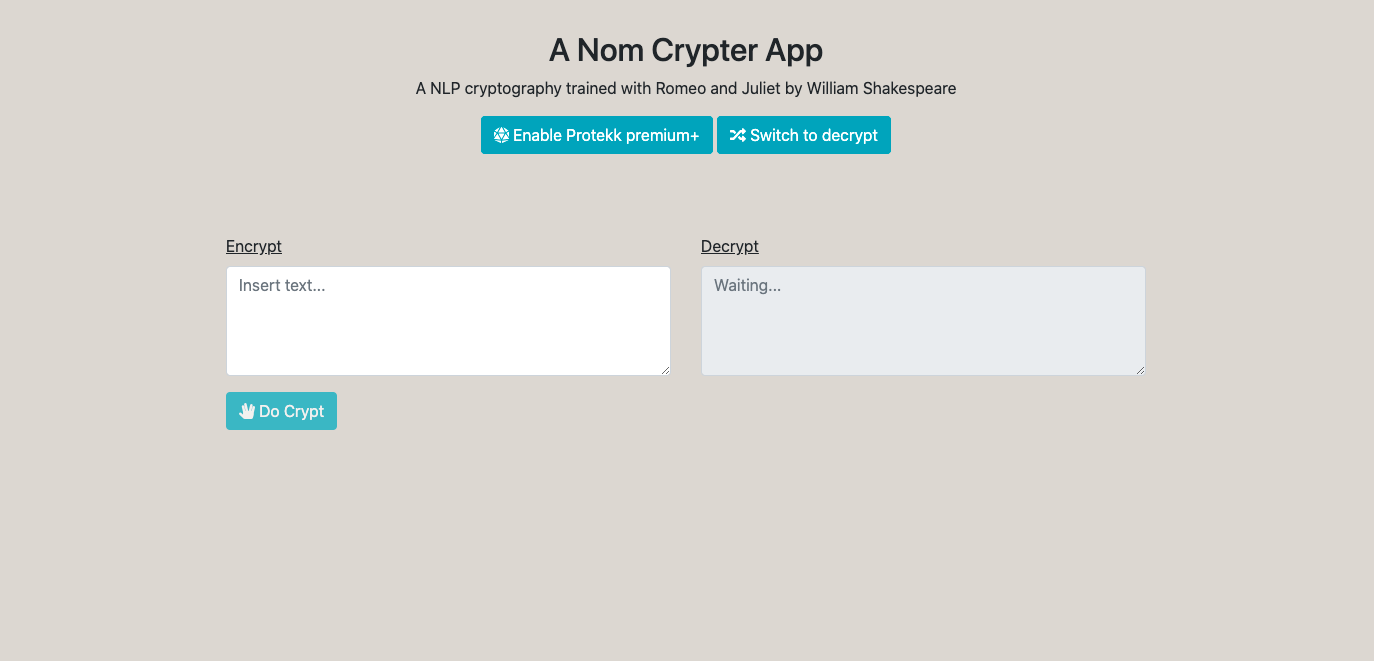
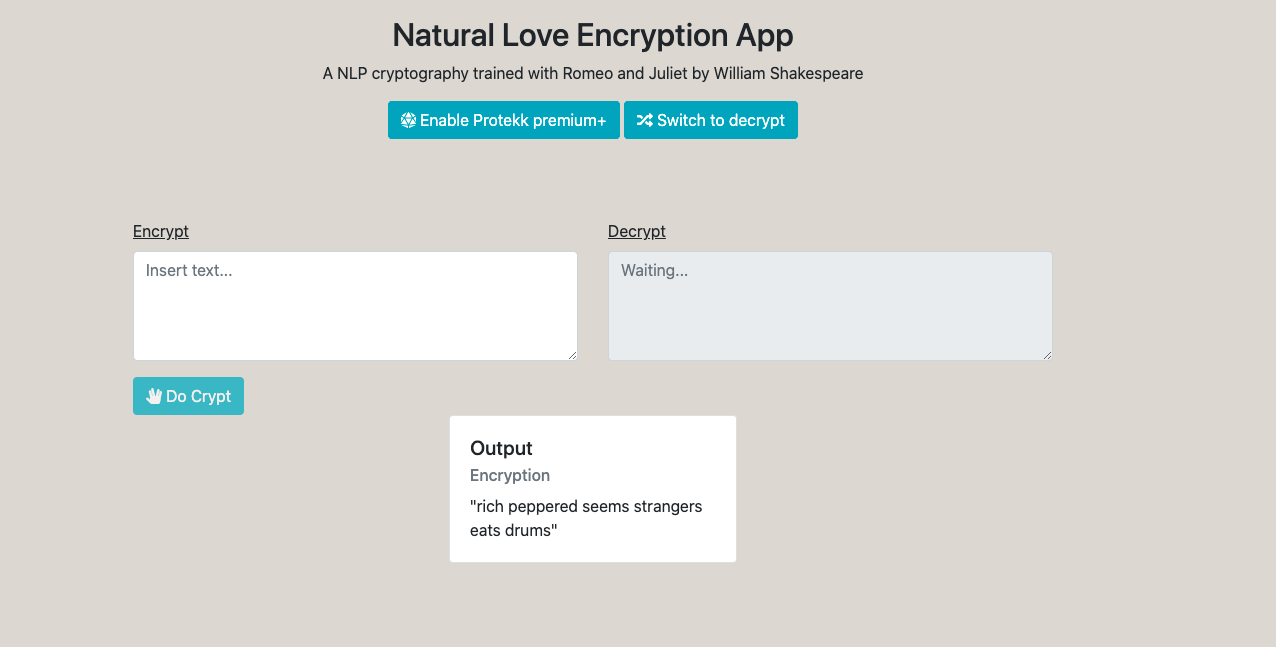
Readme photo fix

diff --git a/README.md b/README.md
@@ -26,6 +26,10 @@ Encrypted:
 Output:
 <code>rich peppered seems strangers eats drums</code>
 
+### Preview
+<img src="https://github.com/eherra/stupidhack2022/blob/main/docs/images/info.png" alt="reviewPhoto">
+
+
 #### Application's known issues
 - This cryptography approach not secure. :)
 - Bugs
